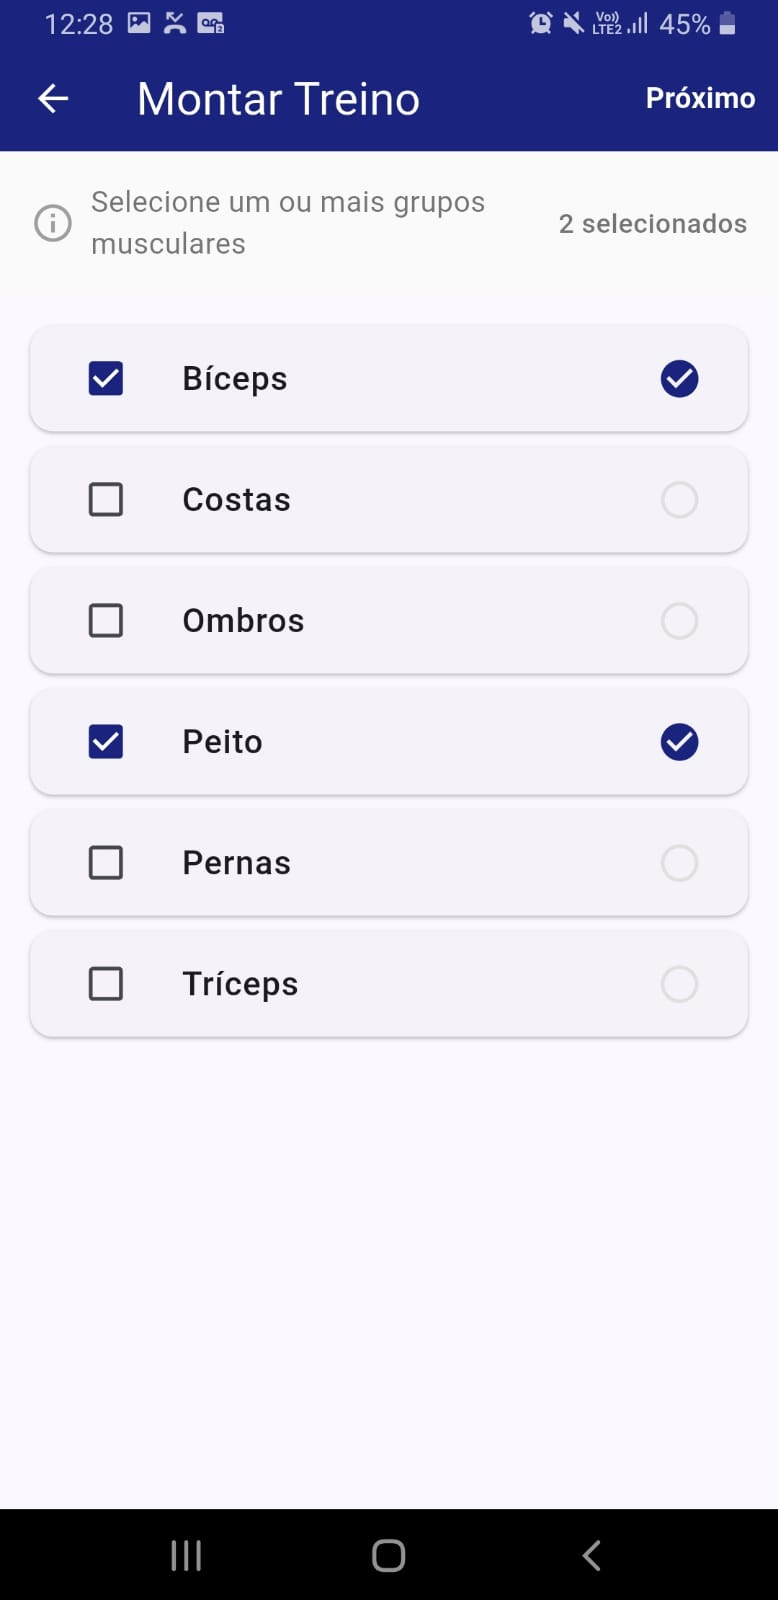
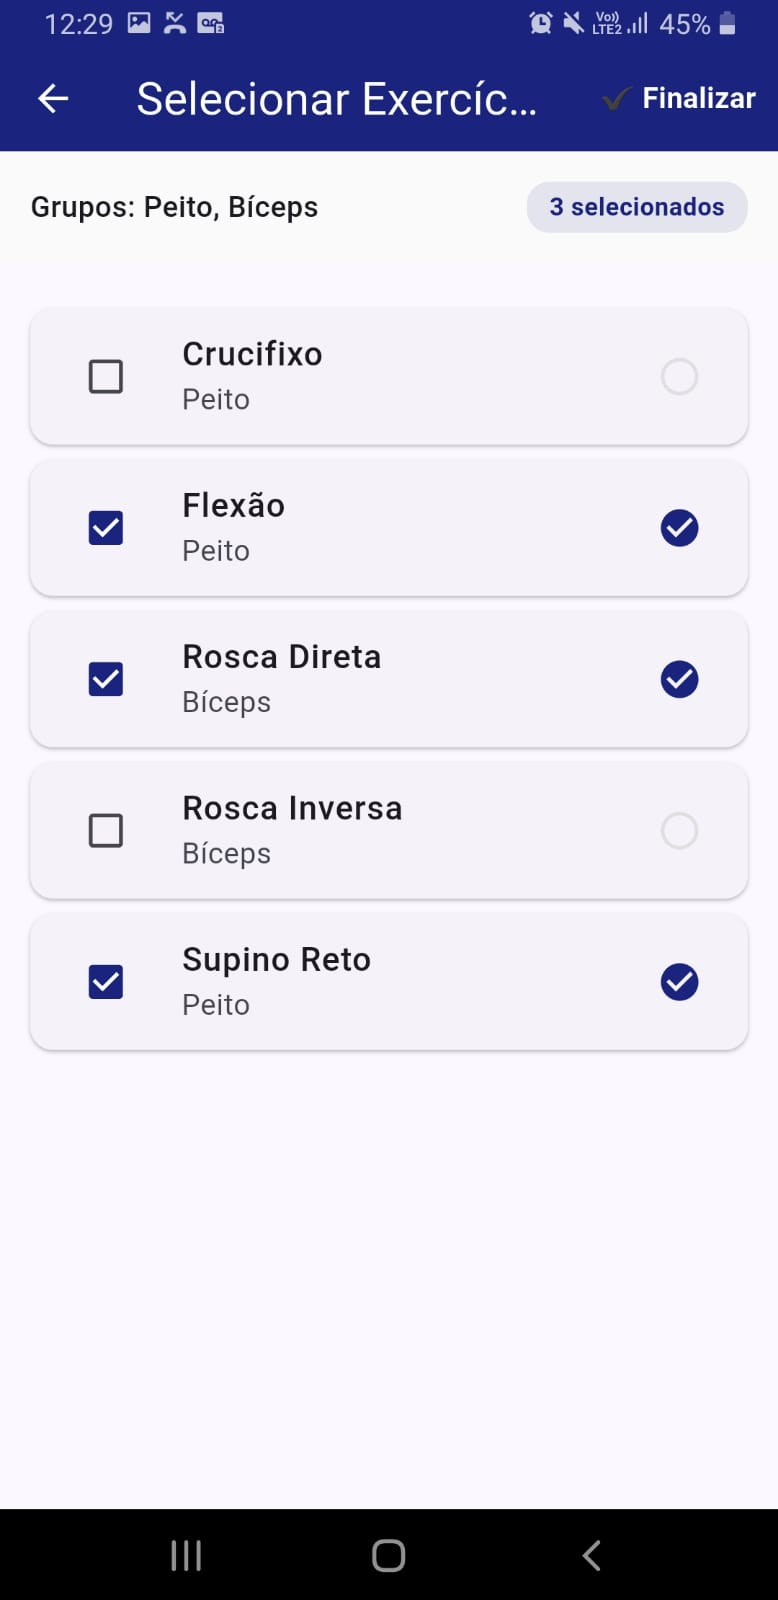
README.md

diff --git a/README.md b/README.md
@@ -25,18 +25,14 @@ O **Labeouf** é um aplicativo minimalista para criação e acompanhamento de tr
 ## 📸 Telas do App
 
 ### Tela Inicial
-![Tela Inicial](screenshots/tela-inicial.jpeg)
+| Seleção de Grupos | Seleção de Exercícios | Seleção de Exercícios |
+|-------------------|----------------------|----------------------|
+![Tela Inicial](screenshots/tela-inicial.jpeg) | ![Meus Treinos](screenshots/meus-treinos.jpeg) | ![Detalhes do Treino](screenshots/treino.jpeg) |
 
 ### Montar Treino
 | Seleção de Grupos | Seleção de Exercícios |
 |-------------------|----------------------|
 | ![Montar Treino 1](screenshots/montar-treino-a.jpeg) | ![Montar Treino 2](screenshots/montar-treino-b.jpeg) |
-
-### Meus Treinos
-![Meus Treinos](screenshots/meus-treinos.jpeg)
-
-### Detalhes do Treino
-![Detalhes do Treino](screenshots/treino.jpeg)
 
 ---
 
